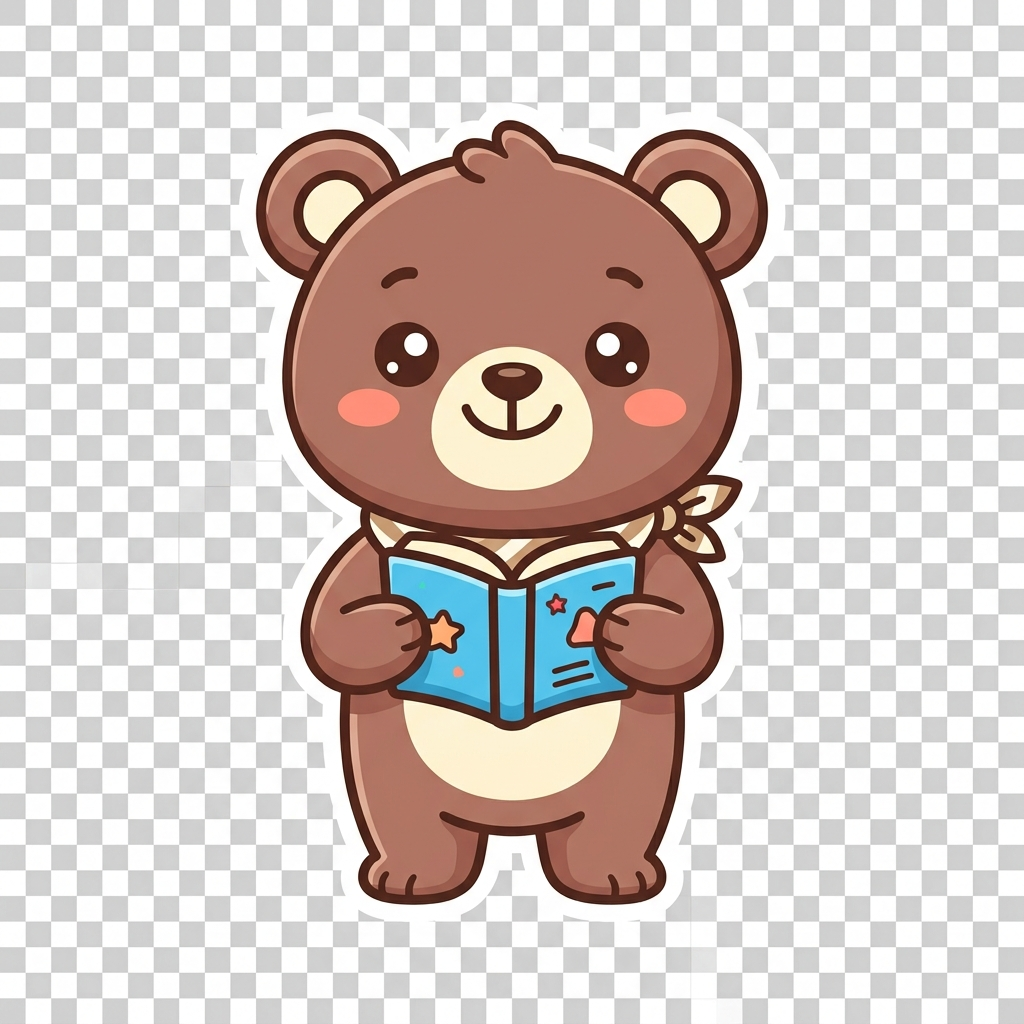
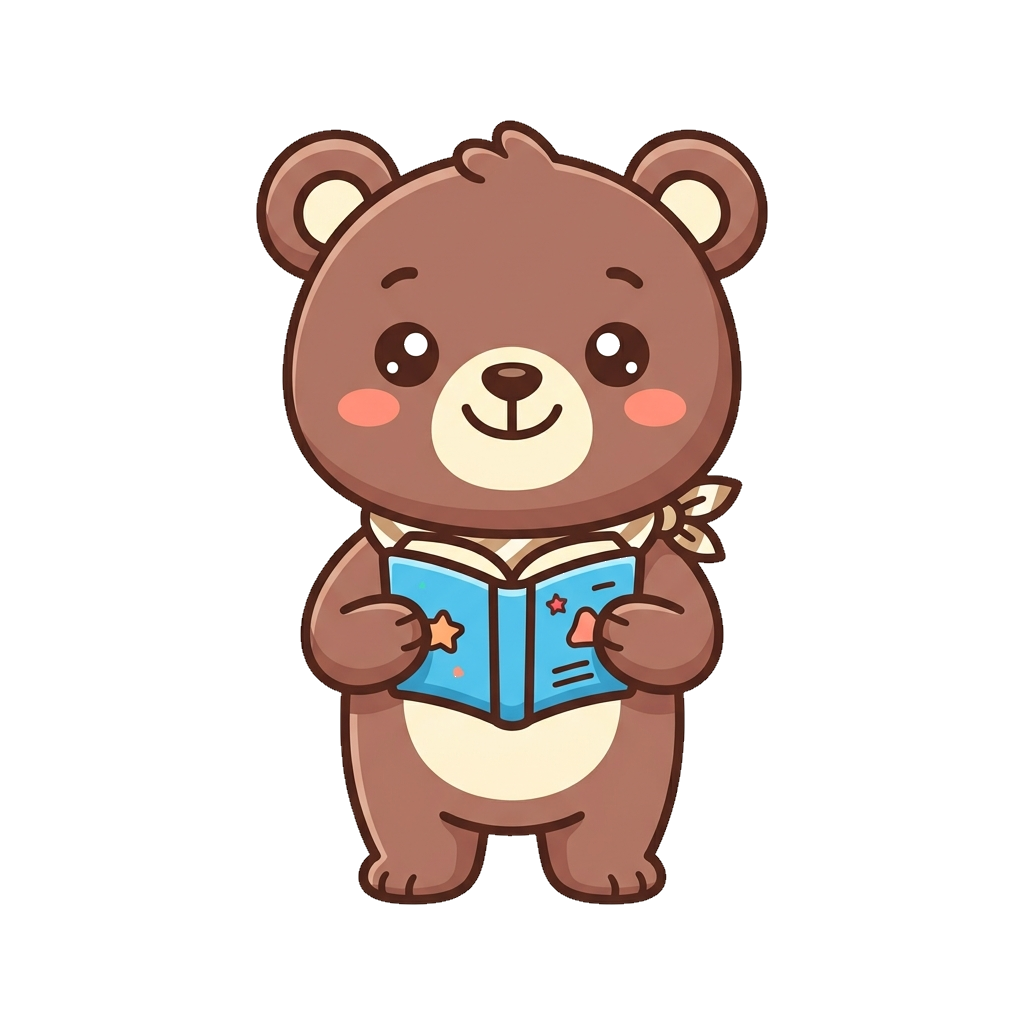
fix: 퀴즈 답안 즉시 노출 버그 + 마스코트 배경 투명도 완전 수정
[치명적 버그] 퀴즈 정답이 문제 로드 시 즉시 보이던 문제 수정
- showResult: 답 제출 전에는 절대 결과 표시하지 않도록 변경
- shouldShowResultState: answered 조건 필수 추가
- 단답형 자동 채점 + 오답 처리 추가

[마스코트 배경] PNG 이미지 실제 투명 처리 (RGB->RGBA)
- 체크무늬가 실제 픽셀 데이터였음 (알파 채널 없었음)
- flood-fill 배경 제거로 진짜 투명 배경 적용

diff --git a/src/components/quiz/QuizView.tsx b/src/components/quiz/QuizView.tsx
@@ -207,10 +207,11 @@ export default function QuizView({
     
     setUserAnswers(prev => ({ ...prev, [qId]: answer.trim() }));
     
-    if (answer.trim() === q.correctAnswer.trim()) {
-      setIsCorrect(prev => ({ ...prev, [qId]: true }));
-      onCorrect(qId);
-    }
+    // Short answer auto-grades (exact match)
+    const correct = answer.trim() === q.correctAnswer.trim();
+    setIsCorrect(prev => ({ ...prev, [qId]: correct }));
+    if (correct) onCorrect(qId);
+    else onWrong(qId);
   };
 
   const handleEssaySubmit = (qId: string) => {
@@ -246,7 +247,7 @@ export default function QuizView({
     ? Object.keys(pendingAnswers).length + questions.filter(q => isCorrect[q.id] !== undefined && !pendingAnswers[q.id]).length
     : questions.filter(q => isCorrect[q.id] !== undefined).length;
   const allAnswered = questions.every(q => userAnswers[q.id]);
-  const isFinished = reviewMode ? true : (isAfterAll ? allRevealed : answeredCount === questions.length);
+  const isFinished = reviewMode ? true : (isAfterAll ? allRevealed : allAnswered && questions.every(q => isCorrect[q.id] !== undefined));
   const score = Object.values(isCorrect).filter(Boolean).length;
 
   const typeLabel = (type: string) => {
@@ -260,7 +261,12 @@ export default function QuizView({
     }
   };
 
-  const showResult = (qId: string) => !isAfterAll || allRevealed || reviewMode;
+  const showResult = (qId: string) => {
+    if (reviewMode) return true;
+    if (!userAnswers[qId]) return false; // Must have answered first!
+    if (isAfterAll) return allRevealed;
+    return true; // immediate mode: show after answering
+  };
 
   return (
     <div className="space-y-8">
@@ -360,7 +366,7 @@ export default function QuizView({
                   
                   let btnStyle = 'w-28 h-28 rounded-3xl border-2 text-5xl font-black transition-all flex items-center justify-center ';
                   
-                  const shouldShowResultState = resultVisible || reviewMode;
+                  const shouldShowResultState = answered && (resultVisible || reviewMode);
 
                   if (shouldShowResultState) {
                     if (isThisCorrect) {
@@ -406,7 +412,7 @@ export default function QuizView({
 
                   let btnClass = "text-left p-4 rounded-xl border transition-all flex justify-between items-center ";
                   
-                  const shouldShowResultState = resultVisible || reviewMode;
+                  const shouldShowResultState = answered && (resultVisible || reviewMode);
                   
                   if (shouldShowResultState) {
                     if (isThisCorrectOption) {
@@ -471,10 +477,10 @@ export default function QuizView({
             {q.type === 'SHORT_ANSWER' && (!q.options || q.options.length === 0) && (
               <div className="space-y-4">
                 {answered ? (
-                    <div className={`p-4 rounded-xl border ${isCorrect[q.id] === true ? 'border-emerald-500 bg-emerald-500/10 text-emerald-100' : isCorrect[q.id] === false ? 'border-rose-500 bg-rose-500/10 text-rose-100' : 'border-sky-500 bg-sky-500/10 text-slate-200'}`}>
-                      <div className={`flex items-center gap-2 mb-4 font-bold ${isCorrect[q.id] === true ? 'text-emerald-400' : isCorrect[q.id] === false ? 'text-rose-400' : 'text-sky-400'}`}>
-                         <CheckCircle2 size={18} />
-                         {isCorrect[q.id] === undefined ? '제출 완료! 모범 답안과 비교하여 스스로 채점해주세요.' : '채점 완료 시스템에 기록되었습니다.'}
+                    <div className={`p-4 rounded-xl border ${isCorrect[q.id] === true ? 'border-emerald-500 bg-emerald-500/10 text-emerald-100' : 'border-rose-500 bg-rose-500/10 text-rose-100'}`}>
+                      <div className={`flex items-center gap-2 mb-4 font-bold ${isCorrect[q.id] === true ? 'text-emerald-400' : 'text-rose-400'}`}>
+                         {isCorrect[q.id] === true ? <CheckCircle2 size={18} /> : <XCircle size={18} />}
+                         {isCorrect[q.id] === true ? '정답입니다! 🎉' : '오답입니다. 모범 답안을 확인하세요.'}
                       </div>
                       <div className="space-y-3 text-sm">
                         {showMyAnswers && (
@@ -488,18 +494,6 @@ export default function QuizView({
                           <p className="bg-emerald-500/10 p-3 rounded-lg border border-emerald-500/30 text-emerald-100">{q.correctAnswer}</p>
                         </div>
                       </div>
-                      {isCorrect[q.id] === undefined && !isFinalized && !reviewMode && (
-                        <div className="mt-4 pt-4 border-t border-sky-500/20 flex gap-2 justify-end">
-                          <button onClick={() => handleSelfGrade(q.id, true)}
-                            className="px-4 py-2 bg-emerald-500/20 text-emerald-400 hover:bg-emerald-500/30 rounded-lg text-sm font-bold transition-colors">
-                            O 맞게 썼음 (정답)
-                          </button>
-                          <button onClick={() => handleSelfGrade(q.id, false)}
-                            className="px-4 py-2 bg-rose-500/20 text-rose-400 hover:bg-rose-500/30 rounded-lg text-sm font-bold transition-colors">
-                            X 틀렸음 (오답)
-                          </button>
-                        </div>
-                      )}
                     </div>
                 ) : (
                   <div className="flex gap-3">
